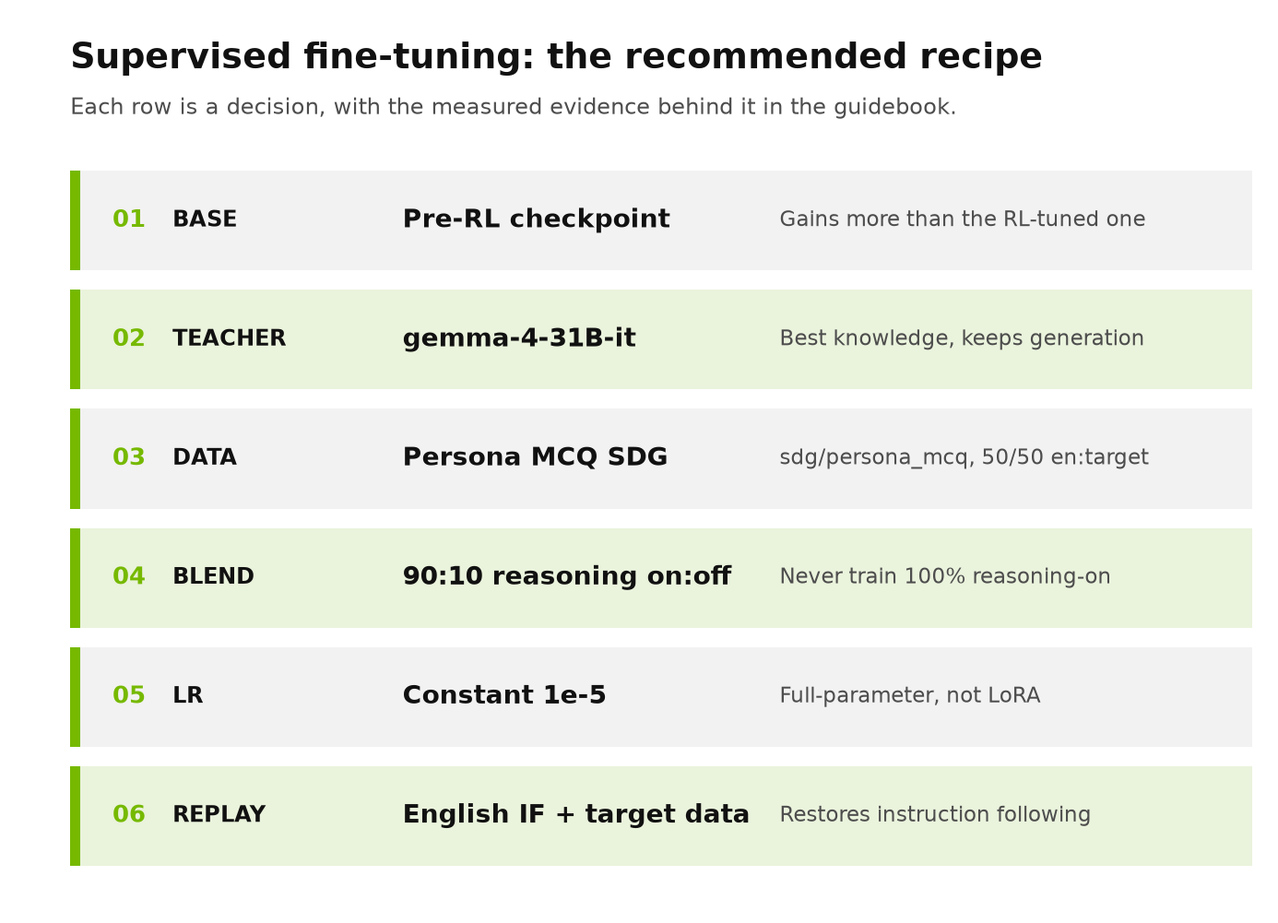
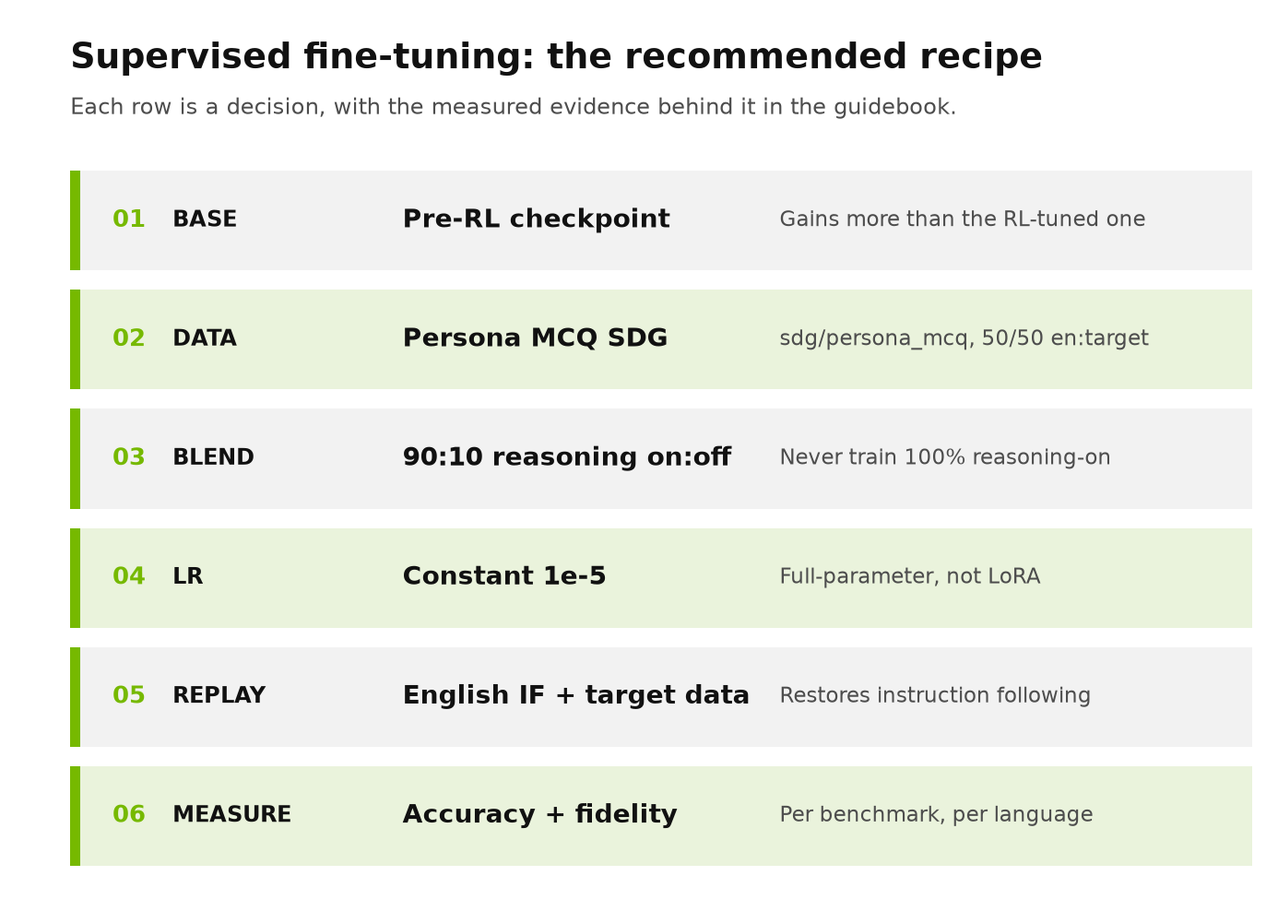
docs: drop the teacher-comparison section from the SFT guidebook
The teacher choice was an internal comparison made before this ablation
  study, not one of its experiments, so publishing the five-teacher table
  and figure overstates what these runs measured.

  Keep the recommendation and the transferable part of the lesson in the
  data-curation section: use gemma-4-31B-it, treat the teacher as a real
  decision rather than a default, and compare candidates on open-ended
  generation quality as well as on the knowledge benchmark.

  Remove assets/teacher_choice.png, drop TEACHER from the overview figure,
  and renumber the remaining sections and their cross-references in both
  the guidebook and the reproducibility notes.

diff --git a/src/nemotron/steps/sft/guidebook/README.md b/src/nemotron/steps/sft/guidebook/README.md
@@ -2,22 +2,22 @@
 
 # Supervised Fine-Tuning Guidebook
 
-> You want to adapt a post-trained model to a new domain or language. This guidebook is the output of an ablation study run specifically to answer that: which base checkpoint, which teacher, what reasoning blend, what learning rate, how much data, and what to put back in so nothing regresses.
+> You want to adapt a post-trained model to a new domain or language. This guidebook is the output of an ablation study run specifically to answer that: which base checkpoint, how to curate the data, what reasoning blend, what learning rate, how much data, and what to put back in so nothing regresses.
 
 **Intended use:** a language- and domain-agnostic recipe for adapting an instruct model with SFT<br>
-**Observed evidence:** Nemotron-3-Nano-30B-A3B, Hindi and Malayalam, 13 controlled ablations<br>
+**Observed evidence:** Nemotron-3-Nano-30B-A3B, Hindi and Malayalam, controlled ablations<br>
 **Example metrics used:** MILU, GSM8K-Indic, IndicIFEval, IndiVibe (LLM-as-judge), script fidelity<br>
 **Reading time:** 10–12 minutes
 
 <p align="center"><img src="./assets/guidebook_overview.png" alt="Recommended SFT recipe" width="760"></p>
 
-**Jump to:** [The recipe](#the-recipe) · [What to expect](#what-to-expect) · [Base](#1-start-from-the-pre-rl-checkpoint) · [Curating the data](#2-curating-the-adaptation-data) · [Teacher](#3-choose-the-teacher-deliberately) · [Reasoning blend](#4-never-train-on-100-reasoning-on-data) · [Learning rate](#5-learning-rate-and-schedule) · [Data volume](#6-how-much-data-you-actually-need) · [Replay](#7-replay-english-alongside-the-target-data) · [Language fidelity](#8-measure-language-fidelity-not-just-accuracy) · [Full SFT vs LoRA](#9-use-full-parameter-sft) · [Apply to your run](#10-apply-this-guide-to-your-sft-run) · [Reproducibility](#reproducibility) · [Future work](#future-work)
+**Jump to:** [The recipe](#the-recipe) · [What to expect](#what-to-expect) · [Base](#1-start-from-the-pre-rl-checkpoint) · [Curating the data](#2-curating-the-adaptation-data) · [Reasoning blend](#3-never-train-on-100-reasoning-on-data) · [Learning rate](#4-learning-rate-and-schedule) · [Data volume](#5-how-much-data-you-actually-need) · [Replay](#6-replay-english-alongside-the-target-data) · [Language fidelity](#7-measure-language-fidelity-not-just-accuracy) · [Full SFT vs LoRA](#8-use-full-parameter-sft) · [Apply to your run](#9-apply-this-guide-to-your-sft-run) · [Reproducibility](#reproducibility) · [Future work](#future-work)
 
 ## Why this study exists
 
 Adapting an already post-trained instruct model is not the same problem as pretraining it. The model already follows instructions, already reasons on demand, and already has an alignment you are about to disturb. The questions a developer actually faces are narrow and practical — *what learning rate, what data mix, how much of it, and what will I break?* — and they are not answered by general SFT guidance.
 
-This study ran 13 controlled ablations to answer them on one concrete use case: adding **Indic language and cultural knowledge** to Nemotron-3-Nano using multiple-choice data grounded in [Nemotron Personas India](#2-curating-the-adaptation-data). The recipe below is what those runs support. The use case is an example; the decisions generalise.
+This study ran a series of controlled ablations to answer them on one concrete use case: adding **Indic language and cultural knowledge** to Nemotron-3-Nano using multiple-choice data grounded in [Nemotron Personas India](#2-curating-the-adaptation-data). The recipe below is what those runs support. The use case is an example; the decisions generalise.
 
 ## How to read this guide
 
@@ -31,13 +31,12 @@ All scores are reasoning-on unless stated, taken at each arm's selected checkpoi
 |---|---|---|
 | **Base checkpoint** | The **pre-RL SFT-only** checkpoint, if you have it | [1](#1-start-from-the-pre-rl-checkpoint) |
 | **Data** | Persona-grounded synthetic data via [`sdg/persona_mcq`](../../sdg/persona_mcq/README.md), 50/50 English:target | [2](#2-curating-the-adaptation-data) |
-| **Teacher for SDG** | **gemma-4-31B-it** | [3](#3-choose-the-teacher-deliberately) |
-| **Reasoning blend** | **90:10 reasoning-on : reasoning-off.** Never 100% on | [4](#4-never-train-on-100-reasoning-on-data) |
-| **Learning rate** | **Constant 1e-5** | [5](#5-learning-rate-and-schedule) |
-| **Volume** | **50k–100k total samples.** More does not buy accuracy | [6](#6-how-much-data-you-actually-need) |
-| **Replay** | **English IF data alongside the target data** — 20k was enough | [7](#7-replay-english-alongside-the-target-data) |
-| **Optional** | +bidirectional en↔target translation pairs, for language routing | [8](#8-measure-language-fidelity-not-just-accuracy) |
-| **Method** | **Full-parameter SFT**, not LoRA | [9](#9-use-full-parameter-sft) |
+| **Reasoning blend** | **90:10 reasoning-on : reasoning-off.** Never 100% on | [3](#3-never-train-on-100-reasoning-on-data) |
+| **Learning rate** | **Constant 1e-5** | [4](#4-learning-rate-and-schedule) |
+| **Volume** | **50k–100k total samples.** More does not buy accuracy | [5](#5-how-much-data-you-actually-need) |
+| **Replay** | **English IF data alongside the target data** — 20k was enough | [6](#6-replay-english-alongside-the-target-data) |
+| **Optional** | +bidirectional en↔target translation pairs, for language routing | [7](#7-measure-language-fidelity-not-just-accuracy) |
+| **Method** | **Full-parameter SFT**, not LoRA | [8](#8-use-full-parameter-sft) |
 
 ## What to expect
 
@@ -52,15 +51,15 @@ The full recipe — persona MCQ data **plus English IF replay** — on the pre-R
 | **IndicIFEval** (instruction following) | −0.81 | −0.61 | −4.90 |
 | **IndiVibe** (LLM-as-judge generation) | — | **56.4 / 100** win-rate vs base | — |
 
-**English is preserved on all three tracked English benchmarks.** MILU improves, GSM8K-Indic and IndicIFEval are flat inside one standard error. That is the point of the replay in [section 7](#7-replay-english-alongside-the-target-data): *without* it, the same run costs 4.08pp of English IndicIFEval.
+**English is preserved on all three tracked English benchmarks.** MILU improves, GSM8K-Indic and IndicIFEval are flat inside one standard error. That is the point of the replay in [section 6](#6-replay-english-alongside-the-target-data): *without* it, the same run costs 4.08pp of English IndicIFEval.
 
 **Target-language gains are large, on knowledge and maths together.** Malayalam gains 17 points of MILU and 14 points of GSM8K-Indic from the same pack.
 
-**IndicIFEval in the target language is the axis to watch.** With the replay it is recovered on the pre-RL base (−0.61 Hindi). On an already-RL-trained checkpoint it is **not** recoverable by SFT replay alone — see [section 7](#7-replay-english-alongside-the-target-data).
+**IndicIFEval in the target language is the axis to watch.** With the replay it is recovered on the pre-RL base (−0.61 Hindi). On an already-RL-trained checkpoint it is **not** recoverable by SFT replay alone — see [section 6](#6-replay-english-alongside-the-target-data).
 
 **Generation quality improves too.** IndiVibe, judged by an LLM against the model's own base, reaches 56.4 on the pre-RL base and 75.9 on the released base (50 = no change), so the gains are not confined to multiple-choice formats.
 
-> **Read this next to the totals:** the pre-RL base answered only 16% of its Hindi maths questions in Hindi. After SFT it answers 91% of them in Hindi. That is a large behavioural improvement that no multiple-choice metric reports — see [section 8](#8-measure-language-fidelity-not-just-accuracy).
+> **Read this next to the totals:** the pre-RL base answered only 16% of its Hindi maths questions in Hindi. After SFT it answers 91% of them in Hindi. That is a large behavioural improvement that no multiple-choice metric reports — see [section 7](#7-measure-language-fidelity-not-just-accuracy).
 
 [Back to top](#top)
 
@@ -77,7 +76,7 @@ The same 100k persona-MCQ pack on both checkpoints:
 | Released SFT+RL | 72.02 | 77.82 | +5.80 |
 | **Pre-RL SFT-only** | 69.48 | 78.11 | **+8.63** |
 
-The pre-RL model starts nearly 3 points lower and finishes higher. The same ordering holds for Malayalam (+17.26 pre-RL against +13.70 released). The decisive difference is instruction following: on the pre-RL base the regression is fully repairable with replay data, and on the RL-trained base it is not ([section 7](#7-replay-english-alongside-the-target-data)).
+The pre-RL model starts nearly 3 points lower and finishes higher. The same ordering holds for Malayalam (+17.26 pre-RL against +13.70 released). The decisive difference is instruction following: on the pre-RL base the regression is fully repairable with replay data, and on the RL-trained base it is not ([section 6](#6-replay-english-alongside-the-target-data)).
 
 > [!NOTE]
 > This is a recommendation about where to *start* SFT, not about what to ship. If you must start from an RL-trained checkpoint, plan an RL stage after SFT rather than expecting replay data to cover it.
@@ -103,10 +102,16 @@ The stages, in order:
 | `build_sft` | Keeps only records where the teachers **unanimously** agree | Consistency gate on the label |
 | `sample` | Aligns English/target pairs and applies the reasoning blend | Produces the final training pack |
 
+**The teacher matters.** We compared several candidate teachers internally before this study and
+picked **gemma-4-31B-it**, which is the teacher behind every result in this guidebook. Treat the
+teacher as a real decision rather than a default, and compare candidates on **open-ended generation
+quality** as well as on your knowledge benchmark — in our comparison the strongest models on
+multiple-choice accuracy were not the strongest on generation.
+
 Two gates in that config are worth copying regardless of domain:
 
 - **Unanimous multi-teacher agreement** (`sft.agreement: unanimous`). Treat it as a *consistency* gate, not factual verification — it removes items the teachers disagree about, which are disproportionately the ambiguous or wrong ones.
-- **A script-fidelity gate at curation time.** The config constrains the Devanagari fraction of each assistant response — 0.00–0.15 for English records, 0.70–1.00 for Hindi records. Enforcing language at data-build time is much cheaper than discovering the problem after training ([section 8](#8-measure-language-fidelity-not-just-accuracy)).
+- **A script-fidelity gate at curation time.** The config constrains the Devanagari fraction of each assistant response — 0.00–0.15 for English records, 0.70–1.00 for Hindi records. Enforcing language at data-build time is much cheaper than discovering the problem after training ([section 7](#7-measure-language-fidelity-not-just-accuracy)).
 
 ```bash
 uv run nemotron steps run sdg/persona_mcq -c default pipeline.experiment_name=my-run
@@ -117,31 +122,7 @@ uv run nemotron steps run sdg/persona_mcq -c default pipeline.experiment_name=my
 
 [Back to top](#top)
 
-## 3. Choose the teacher deliberately
-
-> **Recommendation:** **gemma-4-31B-it**. The teacher that generates your synthetic data is a first-order decision, and the knowledge score alone will not reveal the right choice — check open-ended generation quality at the same time.
-
-### Observed evidence
-
-<p align="center"><img src="./assets/teacher_choice.png" alt="Teacher comparison" width="740"></p>
-
-Five teachers generating the same 100k persona-MCQ set, pre-RL base:
-
-| Teacher | Hindi MILU gain | IndiVibe generation quality |
-|---|---:|---:|
-| **gemma-4-31B-it** | **+8.41** | **+10.00** |
-| Qwen3.5-122B-A10B | +7.89 | −12.27 |
-| gpt-oss-120b | +7.87 | −13.64 |
-| Nemotron-3-Super-120B | +6.16 | 0.00 |
-| Nemotron-3-Nano-30B (self-distill) | +4.49 | −11.82 |
-
-Three teachers land within 0.6pp of each other on MILU, which is inside noise — on knowledge alone the choice would look arbitrary. On open-ended generation they separate sharply, and **gemma-4-31B-it is the only teacher that gains knowledge and improves generation quality at the same time**.
-
-Self-distillation from the model being trained is the weakest option here, which is worth knowing before committing generation budget to it.
-
-[Back to top](#top)
-
-## 4. Never train on 100% reasoning-on data
+## 3. Never train on 100% reasoning-on data
 
 > **Recommendation:** mix reasoning-on and reasoning-off responses in the same pack. **90:10 on:off** worked well here and is the shipped default (`sampling.reasoning_off_fraction: 0.10`). Training only on reasoning-on data disturbs the model's alignment and teaches it to reason even when the caller has explicitly asked it not to.
 
@@ -168,7 +149,7 @@ Leakage falls monotonically as the reasoning-off subset grows. Extrapolating to 
 
 [Back to top](#top)
 
-## 5. Learning rate and schedule
+## 4. Learning rate and schedule
 
 > **Recommendation:** **constant 1e-5**, full-parameter. Prefer a constant schedule over cosine when you intend to evaluate intermediate checkpoints.
 
@@ -184,11 +165,11 @@ Three constant learning rates on the same blend, evaluated early where an over-h
 
 The three rates are close this early, which is the useful result: none of them is destructive in the first few dozen steps, so the choice can be made on later behaviour rather than on early damage. 1e-5 is the best of the three and is the value every other experiment in this series uses.
 
-> **Why constant rather than cosine:** under a cosine schedule the learning rate at step *k* depends on the *total* `train_iters`, so an intermediate checkpoint is a partially-decayed run rather than the model you would get by training for that many steps. With a constant rate every checkpoint is directly comparable, which is what makes the volume and stopping decisions in section 6 measurable at all.
+> **Why constant rather than cosine:** under a cosine schedule the learning rate at step *k* depends on the *total* `train_iters`, so an intermediate checkpoint is a partially-decayed run rather than the model you would get by training for that many steps. With a constant rate every checkpoint is directly comparable, which is what makes the volume and stopping decisions in section 5 measurable at all.
 
 [Back to top](#top)
 
-## 6. How much data you actually need
+## 5. How much data you actually need
 
 > **Recommendation:** **50k–100k total samples**, split 50/50 English:target. Knowledge accuracy saturates far earlier than that, but the reasoning-off subset needs to stay large enough to hold mode integrity — which is what sets the floor.
 
@@ -206,7 +187,7 @@ The three rates are close this early, which is the useful result: none of them i
 
 **20k samples reached 91% of the gain that 200k produced.** The remaining 180k bought +0.57pp, inside 2 SE of the 20k result. On knowledge alone, 20k would be the recommendation.
 
-**But knowledge is not the only axis.** At 20k the 10% reasoning-off subset is only 2,000 samples, and reasoning-off mode integrity degrades badly ([section 4](#4-never-train-on-100-reasoning-on-data): 20.1% leakage in Malayalam against 4.0% at 100k). That is what moves the recommendation up to 50k–100k: you are not buying more accuracy, you are buying enough reasoning-off supervision to keep the mode intact.
+**But knowledge is not the only axis.** At 20k the 10% reasoning-off subset is only 2,000 samples, and reasoning-off mode integrity degrades badly ([section 3](#3-never-train-on-100-reasoning-on-data): 20.1% leakage in Malayalam against 4.0% at 100k). That is what moves the recommendation up to 50k–100k: you are not buying more accuracy, you are buying enough reasoning-off supervision to keep the mode intact.
 
 <details>
 <summary><strong>What the larger packs also buy</strong></summary>
@@ -217,7 +198,7 @@ Volume buys **tolerance to training length**. The small packs peak and then deca
 
 [Back to top](#top)
 
-## 7. Replay English alongside the target data
+## 6. Replay English alongside the target data
 
 > **Recommendation:** when fine-tuning an instruct model, **do not train on target-domain data alone**. Include English replay — in this study 20k English instruction-following samples in the same pack was enough to hold every English benchmark flat and recover the target-language regression.
 
@@ -258,7 +239,7 @@ On the RL-trained checkpoint the replay recovers part of English and **nothing o
 
 [Back to top](#top)
 
-## 8. Measure language fidelity, not just accuracy
+## 7. Measure language fidelity, not just accuracy
 
 > **Recommendation:** for every benchmark whose answer is free-form prose, report the **share of answers actually written in the expected language** next to the accuracy. A multiple-choice metric grades one option letter and cannot see this at all.
 
@@ -288,7 +269,7 @@ Knowledge is flat inside 1 SE, script fidelity improves, and instruction followi
 
 [Back to top](#top)
 
-## 9. Use full-parameter SFT
+## 8. Use full-parameter SFT
 
 > **Recommendation:** **full-parameter SFT** for installing new domain or language knowledge. A LoRA adapter moved the model considerably less on every knowledge axis measured, and the shortfall grew with how unfamiliar the target language was.
 
@@ -306,16 +287,16 @@ Identical pack, identical base, identical iterations — only the update rule di
 
 Full SFT delivers roughly three times the knowledge gain in Hindi and nearly four times in Malayalam. (The Malayalam full-SFT figure here is +15.50 rather than the +17.26 quoted in [What to expect](#what-to-expect) because each page selects its own checkpoint independently — 400 here against 800 there. Both arms on this table are read at the same iterations as each other, which is what makes the comparison valid.) The harder, less-represented language shows the larger gap, which is what you would expect if the limit is adapter capacity rather than tuning.
 
-LoRA does have one real advantage — it preserves English instruction following, where full SFT regresses. But [section 7](#7-replay-english-alongside-the-target-data) buys that back directly for the cost of 20k replay samples without giving up the knowledge, so it is not a reason to choose the adapter for this task.
+LoRA does have one real advantage — it preserves English instruction following, where full SFT regresses. But [section 6](#6-replay-english-alongside-the-target-data) buys that back directly for the cost of 20k replay samples without giving up the knowledge, so it is not a reason to choose the adapter for this task.
 
 > [!NOTE]
 > The learning rates are deliberately unmatched (1e-5 full, 1e-4 LoRA) because an adapter barely moves at 1e-5. This measures LoRA as it would actually be run. A setting that needs many cheap, composable, revertible adapters rather than maximum knowledge from one run is a different question and is not tested here.
 
 [Back to top](#top)
 
-## 10. Apply this guide to your SFT run
+## 9. Apply this guide to your SFT run
 
-Sections 1–9 report what we observed. This turns it into six decisions for
+Sections 1–8 report what we observed. This turns it into six decisions for
 **your** domain, language, model and product bar.
 
 ### 1. Set acceptance thresholds before you train
@@ -348,21 +329,21 @@ reasoning blend      90:10 reasoning-on:off    -> mode integrity  (§4)
 English replay       ~20k IF samples           -> instruction following  (§7)
 ```
 
-Start at **50k–100k total samples** ([§6](#6-how-much-data-you-actually-need)) —
+Start at **50k–100k total samples** ([§5](#5-how-much-data-you-actually-need)) —
 sized by the reasoning-off subset, not by accuracy, which saturates earlier.
 
 ### 4. Train
 
 Constant **1e-5**, full-parameter, warmup 5% of `train_iters`
-([§5](#5-learning-rate-and-schedule), [§9](#9-use-full-parameter-sft)). Save
+([§4](#4-learning-rate-and-schedule), [§8](#8-use-full-parameter-sft)). Save
 often enough to select from a curve, and use the **same cadence** across every
 arm you intend to compare.
 
 ### 5. Evaluate several checkpoints, on more than accuracy
 
 At each checkpoint track target accuracy, English retention, **script fidelity**
-per generative benchmark ([§8](#8-measure-language-fidelity-not-just-accuracy)),
-**reasoning-off mode integrity** ([§4](#4-never-train-on-100-reasoning-on-data)),
+per generative benchmark ([§7](#7-measure-language-fidelity-not-just-accuracy)),
+**reasoning-off mode integrity** ([§3](#3-never-train-on-100-reasoning-on-data)),
 and open-ended generation quality with an LLM judge. Read a few raw generations
 before trusting any aggregate — the language failures are invisible in the
 numbers a multiple-choice metric produces.
@@ -375,8 +356,8 @@ holds, and the result is stable across two adjacent checkpoints.
 
 If instruction following fails, add replay — unless you started from an
 RL-trained checkpoint, in which case plan an RL stage instead
-([§7](#7-replay-english-alongside-the-target-data)). If adaptation fails, change
-the teacher or the data before adding volume; [§6](#6-how-much-data-you-actually-need)
+([§6](#6-replay-english-alongside-the-target-data)). If adaptation fails, change
+the teacher or the data before adding volume; [§5](#5-how-much-data-you-actually-need)
 shows more of the same data does not reliably help.
 
 ### Measurement rules
@@ -410,8 +391,8 @@ Datasets, pipeline steps, hardware, and the full hyperparameter tables live in
 
 | Priority | Experiment | Question it would close |
 |---:|---|---|
-| 1 | A 100%-reasoning-on arm against the 90:10 blend | Quantifies the [section 4](#4-never-train-on-100-reasoning-on-data) recommendation directly |
-| 2 | Instruction-following data authored in the target language | Does the [section 7](#7-replay-english-alongside-the-target-data) repair improve when replay is not English-only? |
+| 1 | A 100%-reasoning-on arm against the 90:10 blend | Quantifies the [section 3](#3-never-train-on-100-reasoning-on-data) recommendation directly |
+| 2 | Instruction-following data authored in the target language | Does the [section 6](#6-replay-english-alongside-the-target-data) repair improve when replay is not English-only? |
 | 3 | An RL stage after SFT on the released checkpoint | Confirms instruction following is restorable that way |
 | 4 | The same pipeline for a non-Indic domain | Does the recipe hold when the adaptation is domain rather than language? |
 | 5 | The same recipe on the larger shipping model | Do these Nano results transfer to the model that ships? |

diff --git a/src/nemotron/steps/sft/guidebook/REPRODUCIBILITY.md b/src/nemotron/steps/sft/guidebook/REPRODUCIBILITY.md
@@ -93,8 +93,8 @@ Two auxiliary packs appear in the guidebook:
 
 | Pack | Contents | Used in |
 |---|---|---|
-| IF replay | 20k English instruction-following samples | [§7](./README.md#7-replay-english-alongside-the-target-data) |
-| Translation | bidirectional en↔target pairs (Updesh) | [§8](./README.md#8-measure-language-fidelity-not-just-accuracy) |
+| IF replay | 20k English instruction-following samples | [§6](./README.md#6-replay-english-alongside-the-target-data) |
+| Translation | bidirectional en↔target pairs (Updesh) | [§7](./README.md#7-measure-language-fidelity-not-just-accuracy) |
 
 ### Base checkpoints
 
@@ -110,7 +110,7 @@ Two auxiliary packs appear in the guidebook:
 > rather than +8.63) and the instruction-following regression is not recoverable
 > by replay alone, which is exactly the finding in
 > [§1](./README.md#1-start-from-the-pre-rl-checkpoint) and
-> [§7](./README.md#7-replay-english-alongside-the-target-data).
+> [§6](./README.md#6-replay-english-alongside-the-target-data).
 
 ---
 
@@ -169,9 +169,9 @@ Shared by every full-SFT arm:
 That is deliberate: under a cosine schedule the rate at step *k* depends on the
 total `train_iters`, so intermediate checkpoints are partially-decayed runs and
 are not comparable to each other. See
-[§5](./README.md#5-learning-rate-and-schedule).
+[§4](./README.md#4-learning-rate-and-schedule).
 
-**LoRA arms** ([§9](./README.md#9-use-full-parameter-sft)) change only:
+**LoRA arms** ([§8](./README.md#8-use-full-parameter-sft)) change only:
 
 | Setting | Value |
 |---|---|
@@ -187,13 +187,12 @@ are not comparable to each other. See
 | Guidebook section | Arm | `train_iters` | warmup | save every |
 |---|---|--:|--:|--:|
 | [§1](./README.md#1-start-from-the-pre-rl-checkpoint) base choice | MCQ 100k, both bases | 500 | 25 | 50 |
-| [§3](./README.md#3-choose-the-teacher-deliberately) teacher | MCQ 100k × 5 teachers × 2 bases | 500 | 25 | 50 |
-| [§6](./README.md#6-how-much-data-you-actually-need) volume | MCQ 20k | 500 | 25 | 20 |
+| [§5](./README.md#5-how-much-data-you-actually-need) volume | MCQ 20k | 500 | 25 | 20 |
 | | MCQ 50k / 80k / 100k | 500 | 25 | 50 |
 | | MCQ 200k | 1000 | 50 | 100 |
-| [§7](./README.md#7-replay-english-alongside-the-target-data) replay | MCQ 100k + IF 20k, both bases | 500 | 25 | 50 |
-| [§8](./README.md#8-measure-language-fidelity-not-just-accuracy) translation | MCQ 100k + Updesh, both bases | 500 | 25 | 50 |
-| [§9](./README.md#9-use-full-parameter-sft) LoRA | MCQ 100k, LoRA | 500 | 25 | 50 |
+| [§6](./README.md#6-replay-english-alongside-the-target-data) replay | MCQ 100k + IF 20k, both bases | 500 | 25 | 50 |
+| [§7](./README.md#7-measure-language-fidelity-not-just-accuracy) translation | MCQ 100k + Updesh, both bases | 500 | 25 | 50 |
+| [§8](./README.md#8-use-full-parameter-sft) LoRA | MCQ 100k, LoRA | 500 | 25 | 50 |
 | English + Malayalam | MCQ en50k+ml50k | 1000 | 50 | 100 |
 
 Checkpoint cadence must be identical across arms being compared — a
@@ -214,7 +213,9 @@ finer-grained arm gets more chances to land on a favourable checkpoint.
 | 500 iterations | 2,097,152 | ≈1.05 B |
 | 1000 iterations | 2,097,152 | ≈2.10 B |
 
-The full study is 13 experiments over **307 trained checkpoints**, each evaluated
+The full study behind this guidebook trained and evaluated **307 checkpoints** —
+more experiments than are published here, since not every arm produced a
+recommendation worth shipping. Each checkpoint was evaluated
 on four benchmarks across three languages and two reasoning modes.
 **Evaluation, not training, was the dominant cost**: that is 20 benchmark ×
 language × mode cells per checkpoint — MILU, GSM8K-Indic and IndicIFEval at
